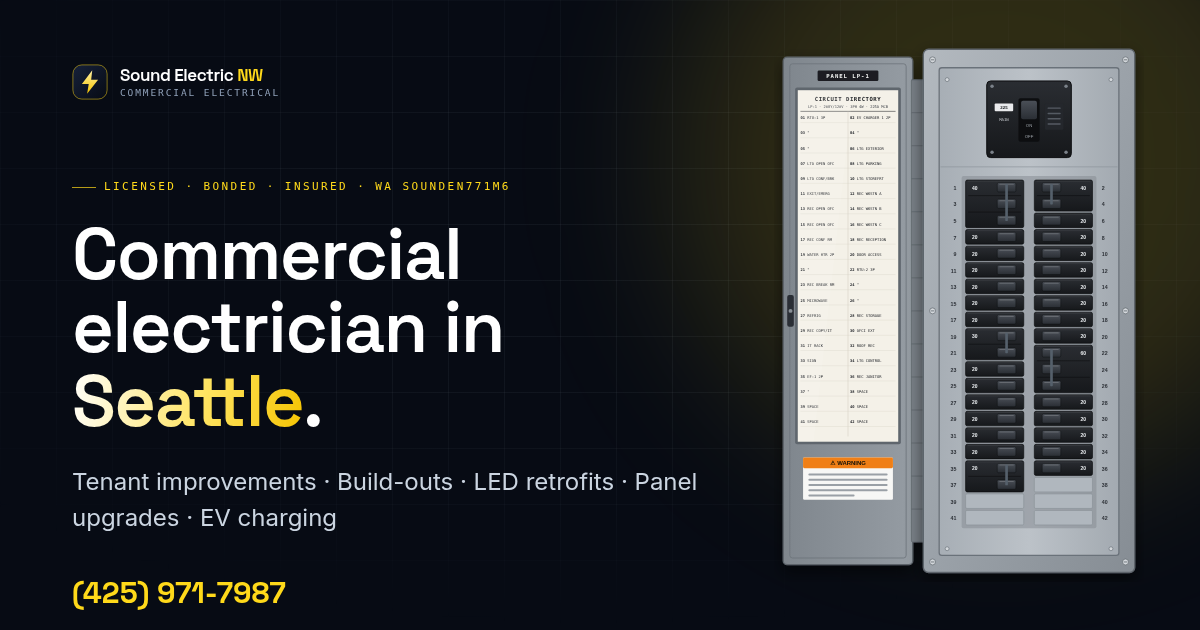
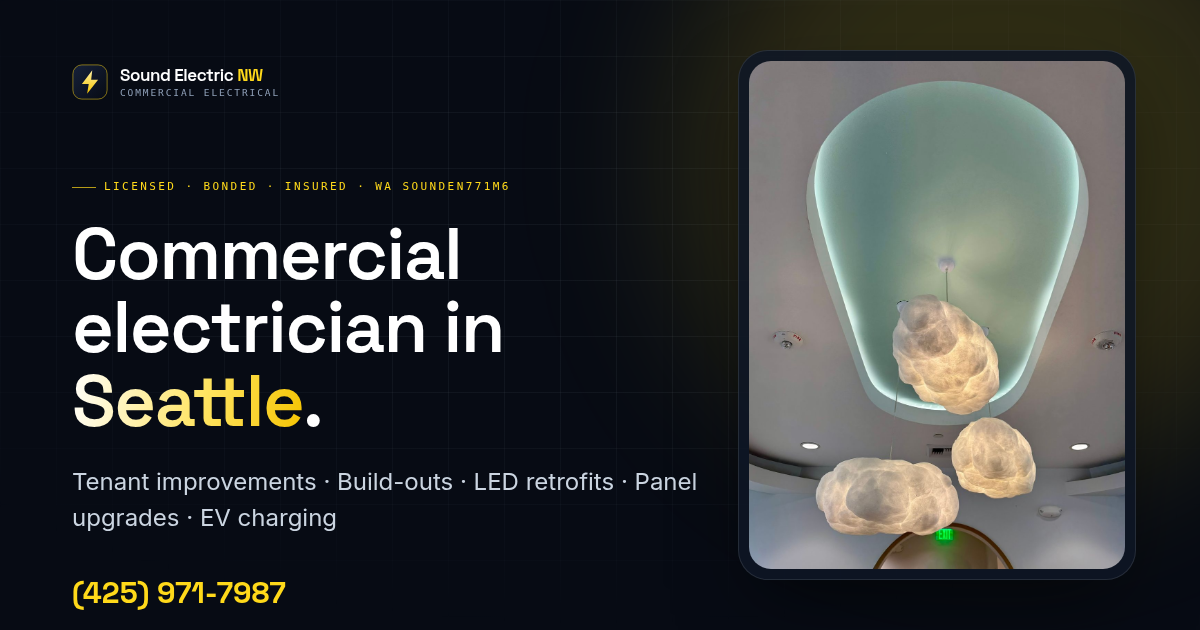
Update service area, hero photo, and social image. (#6)
Use Greater Seattle Area wording and a 19-city map, replace the hero panel illustration with the lighting photo, and refresh the Open Graph image.

Changed region(s): [[0.6167, 0.0603, 0.9558, 0.9349]]

diff --git a/src/data/site.ts b/src/data/site.ts
@@ -12,13 +12,15 @@ export const SITE = {
   license: 'SOUNDEN771M6',
   licenseVerifyUrl: 'https://secure.lni.wa.gov/verify/',
   owner: 'Jeremiah',
-  tagline: 'Commercial electrical contractor serving Seattle, King County & the Eastside',
+  tagline: 'Commercial electrical contractor serving the Greater Seattle Area',
 };
 
 // TODO(Jeremiah): confirm this list matches where you actually want to work.
+// Roughly north to south. Keep in sync with the points in src/components/ServiceAreaMap.astro.
 export const SERVICE_AREAS = [
-  'Seattle', 'Bellevue', 'Redmond', 'Kirkland', 'Bothell', 'Woodinville',
-  'Issaquah', 'Sammamish', 'Mercer Island', 'Renton', 'Tukwila', 'Shoreline',
+  'Seattle', 'Bellingham', 'Marysville', 'Shoreline', 'Bothell', 'Woodinville', 'Duvall',
+  'Kirkland', 'Redmond', 'Bellevue', 'Sammamish', 'Mercer Island', 'Issaquah',
+  'Renton', 'Tukwila', 'Federal Way', 'Tacoma', 'Poulsbo', 'Port Orchard',
 ];
 
 const NAV_ITEMS = [
@@ -95,7 +97,7 @@ export const SERVICES: Service[] = [
 export const FAQS = [
   {
     q: 'Do you do residential work?',
-    a: 'No. Sound Electric NW focuses only on commercial electrical work: tenant improvements, build-outs, lighting, service upgrades, EV charging and maintenance for businesses and commercial properties.',
+    a: 'No. Sound Electric NW focuses on commercial electrical work: tenant improvements, build-outs, lighting, service upgrades, EV charging and maintenance for businesses and commercial properties.',
   },
   {
     q: 'Are you licensed, bonded and insured?',
@@ -103,7 +105,7 @@ export const FAQS = [
   },
   {
     q: 'What areas do you serve?',
-    a: 'We serve greater Seattle: Seattle and King County, including Eastside cities like Bellevue, Redmond and Kirkland. If you are not sure your site is in our area, just ask.',
+    a: 'We serve the Greater Seattle Area, from Bellingham and Marysville in the north to Tacoma and Federal Way in the south, east to Duvall and Issaquah, and west across the Sound to Poulsbo and Port Orchard. If you are not sure your site is in our area, just ask.',
   },
   {
     q: 'Do you work with general contractors and property managers?',

diff --git a/README.md b/README.md
@@ -33,7 +33,7 @@ Uses Playwright-core with the system Chrome at `/usr/bin/google-chrome`. Overrid
 - `src/data/features.mjs`: `SHOW_PROJECTS`, `SHOW_TESTIMONIAL`, `SHOW_OWNER_BIO`, and `SHOW_JOB_SITE_PHOTO` (all `false` until real content exists)
 - `src/data/projects.ts`: project cards (**all placeholders**; not rendered while `SHOW_PROJECTS` is false)
 - `src/components/Panelboard.astro`: original SVG illustration of a commercial bolt-on panelboard, PRL1a-style (deadfront and interior modes)
-- `src/layouts/Base.astro`: SEO meta, Open Graph and Twitter tags, plus Electrician JSON-LD (no street address, areaServed Seattle/King County)
+- `src/layouts/Base.astro`: SEO meta, Open Graph and Twitter tags, plus Electrician JSON-LD (no street address, areaServed Greater Seattle Area plus the city list)
 - `public/`: favicon.svg/png, apple-touch-icon, og-image.png, robots.txt. The sitemap comes from @astrojs/sitemap.
 
 ## Needs real content before launch
